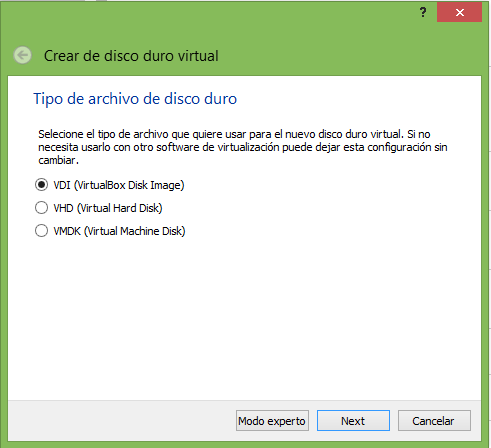
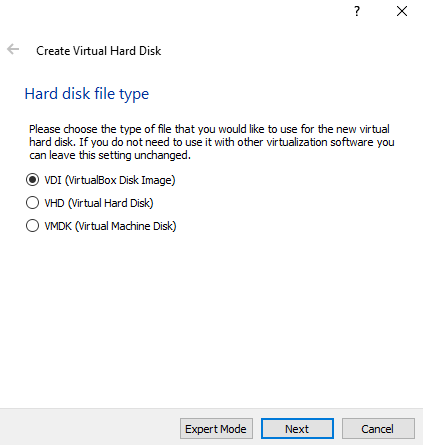
neon-04

Changed region(s): [[0.0, 0.0, 1.0, 1.0], [0.0615, 0.2629, 0.922, 0.5258]]

diff --git a/README.md b/README.md
@@ -1,35 +1,79 @@
 # linux-neon
 Sistema operativo para el Desarrollo de una comunidad 
 
-1. se le pone el nombre 
+1. inicie Oracle VirtualBox Manager y haga clic en la opción para crear una nueva máquina virtual, Ingrese un nombre para la máquina virtual en el Nombre campo y seleccione el MáquinaCarpeta donde guardar la máquina virtual. KDE neon se basa en Ubuntu 20.04 LTS, por lo que debe seleccionar el Escribe como Linux y el Versión como Ubuntu (64 bits).
+
 ![img](imagenes/img1.PNG)
 
+2. A continuación, seleccione el tamaño de la memoria de acceso aleatorio (RAM). El tamaño de memoria recomendado es de 1024 megabytes (MB), pero puede permitir más memoria según las especificaciones del sistema.
 
 ![img](imagenes/img2.PNG)
 
-
+3. La máquina virtual KDE Neon requiere un disco duro. Para crear un disco duro para la máquina virtual KDE Neon, seleccione Crear un disco duro virtual ahora y presione Crear.
 
 ![img](imagenes/img3.PNG)
 
+4. En la siguiente pantalla, seleccione el VDI (imagen de disco de VirtualBox) tipo de archivo de disco duro y haga clic en next.
 
 ![img](imagenes/img4.PNG)
 
-
+5. En la siguiente pantalla, seleccione el tipo de almacenamiento DinamicamenteAsignado y haga clic en next.
 
 ![img](imagenes/img5.PNG)
 
-
+6. En la siguiente pantalla, verifique el destino y el nombre del disco duro virtual, seleccione el tamaño de archivo apropiado y haga clic en Crear.
 
 ![img](imagenes/img6.PNG)
 
-
+7. Ahora, configuraremos algunos ajustes iniciales. Haga clic en el Ajustes opción para continuar.
 
 ![img](imagenes/img7.PNG)
 
-
+8. En el Ajustes ventana, haga clic en el Mostrar pestaña, verifique la Permitir3DAceleración cuadro y haga clic en OK.
 
 ![img](imagenes/img8.PNG)
 
-
+9. A continuación, haga clic en el Comienzo y aparecerá la siguiente ventana. Haga clic en el Escoger, agregue el ISO de neón de KDE y haga clic en Escoger.
 
 ![img](imagenes/img9.PNG)
+
+10. Haga clic en el Comienzo y el sistema comprobará los archivos de instalación.
+
+![img](imagenes/img10.PNG)
+
+11. Cuando el escritorio esté cargado, presione el Instalar en pcSistema botón.
+
+![img](imagenes/img11.PNG)
+
+12. Seleccione el idioma preferido y haga clic en Próximo.
+
+![img](imagenes/img12.PNG)
+
+13. Seleccione la ubicación adecuada, es decir, región, ubicación y zona, y haga clic en Próximo.
+
+![img](imagenes/img13.PNG)
+
+14. En la siguiente pantalla, seleccione el TecladoDiseño, luego haga clic en Próximo.
+
+![img](imagenes/img14.PNG)
+
+15. Como creamos un nuevo disco duro virtual para nuestra máquina virtual KDE neon, en la pantalla de particiones, seleccionaremos Borrardisco y haga clic en Próximo.
+
+![img](imagenes/img15.PNG)
+
+16. Ingrese los detalles requeridos en todos los campos para crear un nuevo usuario, luego haga clic en Instalar en pc.
+
+![img](imagenes/img16.PNG)
+
+17. Ahora comienza la instalación.
+
+![img](imagenes/img17.PNG)
+
+18. Cuando se complete la instalación, presione el Hecho y se reiniciará KDE Neon.
+
+![img](imagenes/img18.PNG)
+
+19.  Después de que el sistema se reinicie, verá la siguiente pantalla:
+
+![img](imagenes/img19.PNG)
+![img](imagenes/img20.PNG)
